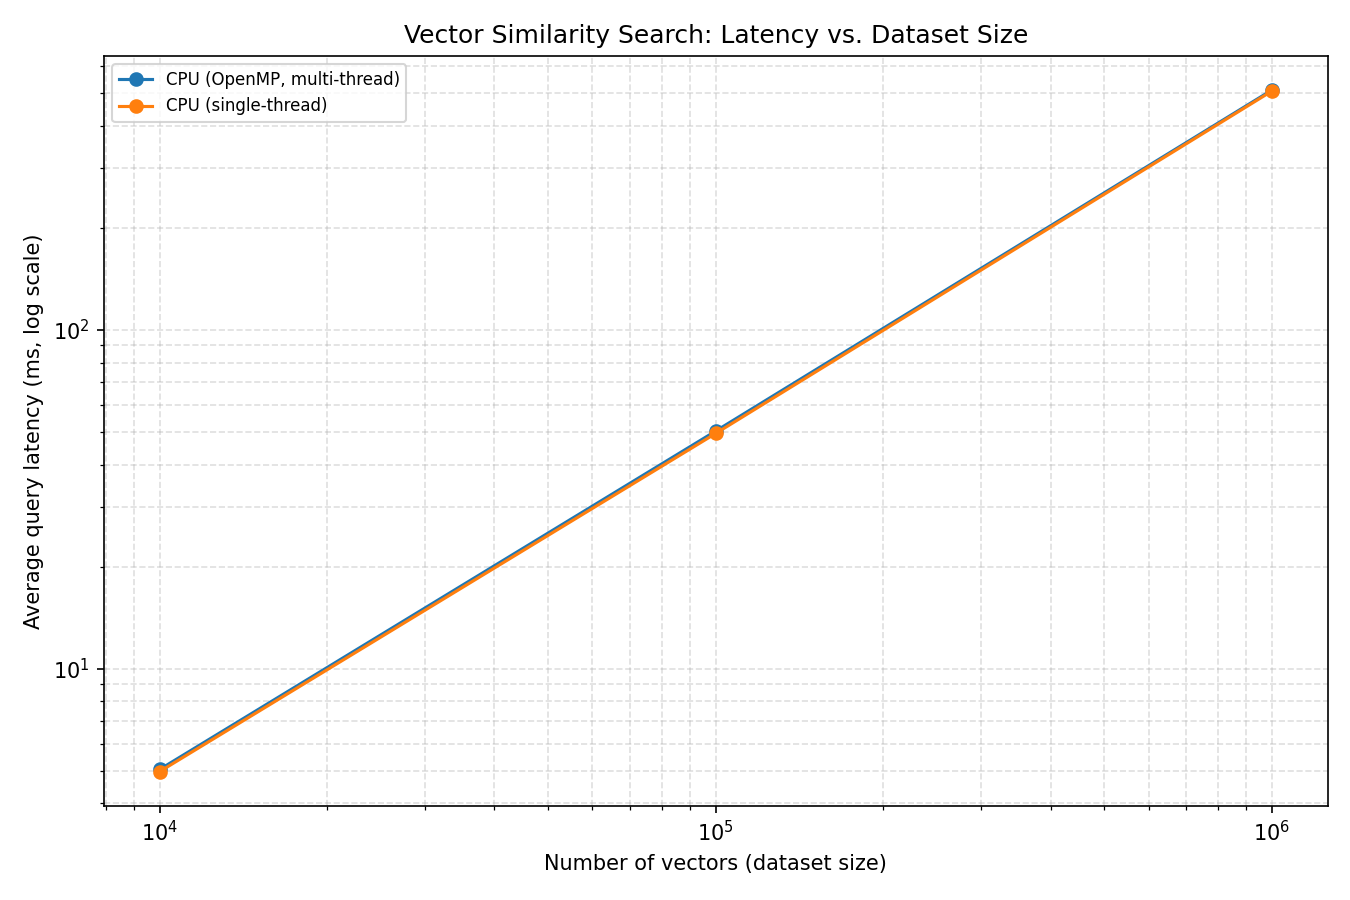
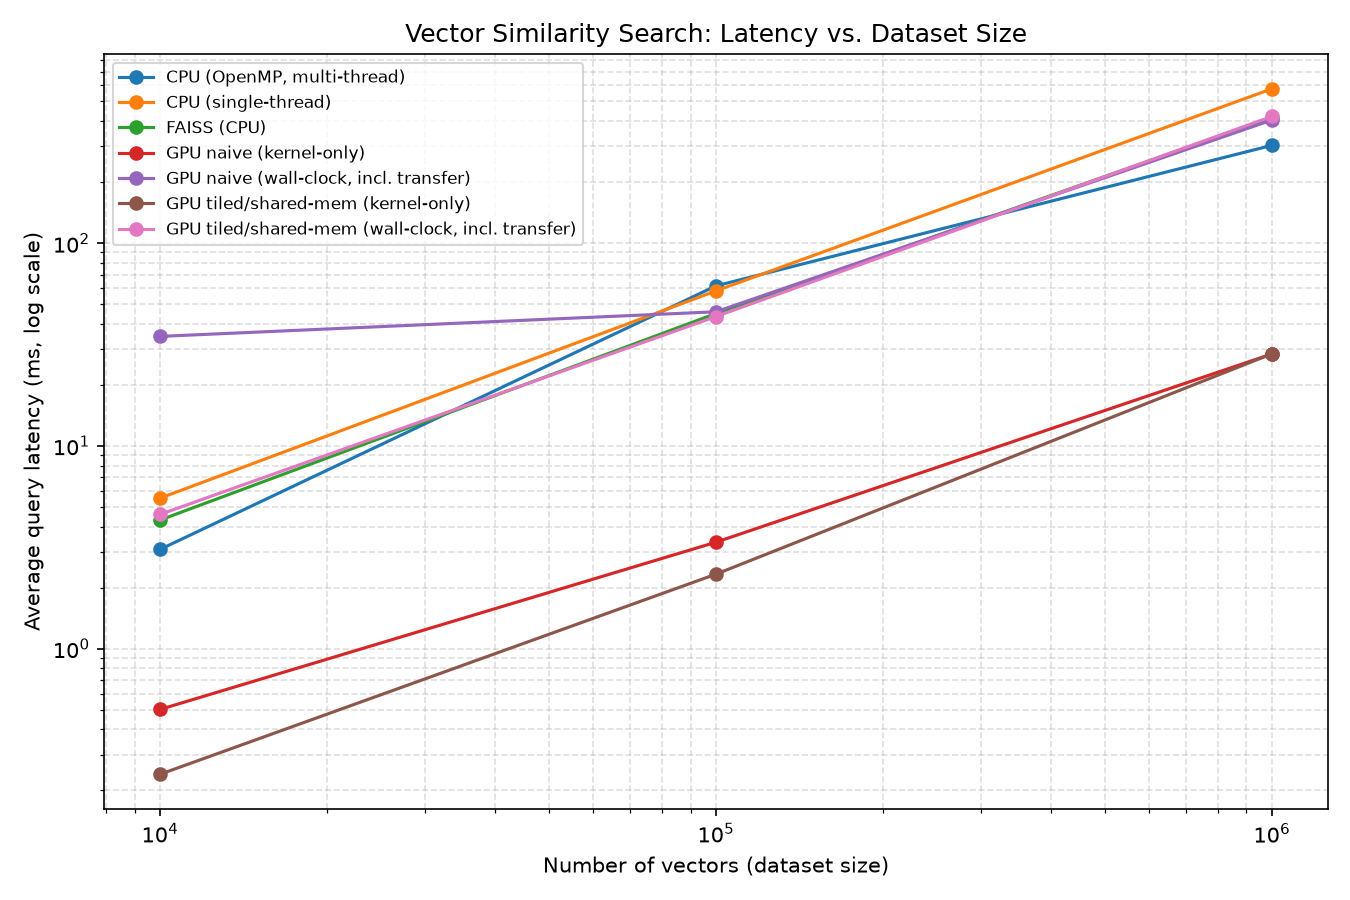
Add Colab T4 benchmark results to README and results/
Fill the Results table with measured CPU, CUDA kernel, and FAISS
latencies from a Tesla T4 run, and refresh benchmark.csv plus the
latency chart (deduped Colab data, no sandbox placeholders).

Changed region(s): [[0.0, 0.0311, 0.9956, 0.9956], [0.0, 0.4044, 0.0311, 0.6844], [0.8711, 0.4667, 0.9644, 0.56]]

diff --git a/README.md b/README.md
@@ -234,16 +234,26 @@ paper over)
 
 ## Results
 
-*(Fill in after running on real hardware -- this is a template, not
-invented numbers.)*
+Measured on **Google Colab Tesla T4** (CUDA 12.8), `dim=384`, L2 distance.
+GPU columns below are **kernel-only** times (exclude host↔device transfer).
+Wall-clock numbers (with per-query re-upload) are in `results/benchmark.csv`
+and on the chart -- at 100K–1M they are dominated by transfer, as noted under
+Known limitations.
 
 | Dataset size | CPU single-thread | CPU OpenMP | GPU naive (kernel) | GPU tiled (kernel) | FAISS CPU |
 |---|---|---|---|---|---|
-| 10,000    | | | | | |
-| 100,000   | | | | | |
-| 1,000,000 | | | | | |
+| 10,000    | 5.52 ms | 3.09 ms | 0.50 ms | 0.24 ms | 4.30 ms |
+| 100,000   | 58.2 ms | 61.6 ms | 3.35 ms | 2.33 ms | 45.0 ms |
+| 1,000,000 | 578 ms | 304 ms | 28.4 ms | 28.5 ms | 416 ms |
 
-Speedup, tiled vs. naive GPU: **[X]x**
-Speedup, tiled GPU vs. multi-threaded CPU: **[Y]x**
+Speedup, tiled vs. naive GPU (kernel, 10K): **2.1×**
+Speedup, tiled GPU vs. multi-threaded CPU (kernel, 100K): **26×**
+Speedup, tiled GPU vs. multi-threaded CPU (kernel, 1M): **11×**
+
+At 1M vectors the tiled and naive kernels are essentially tied (~28 ms): the
+shared-memory query tiling win is clearest at smaller/medium sizes; at large
+`n` other costs dominate the kernel path. GPU wall-clock at 1M (~405–422 ms)
+is close to FAISS CPU / OpenMP because this benchmark re-transfers the full
+dataset every query.
 
 ![latency chart](results/latency_chart.png)
